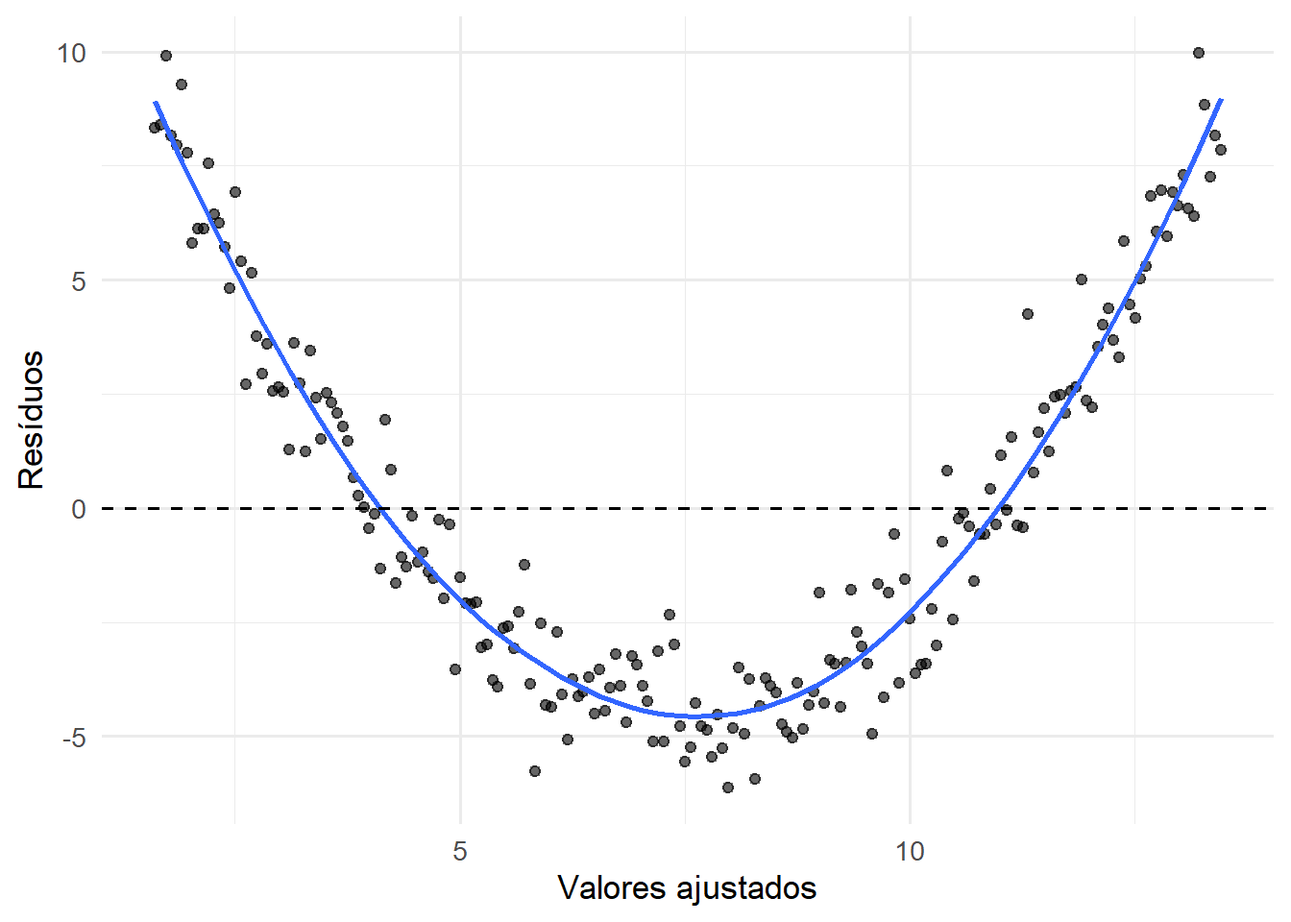
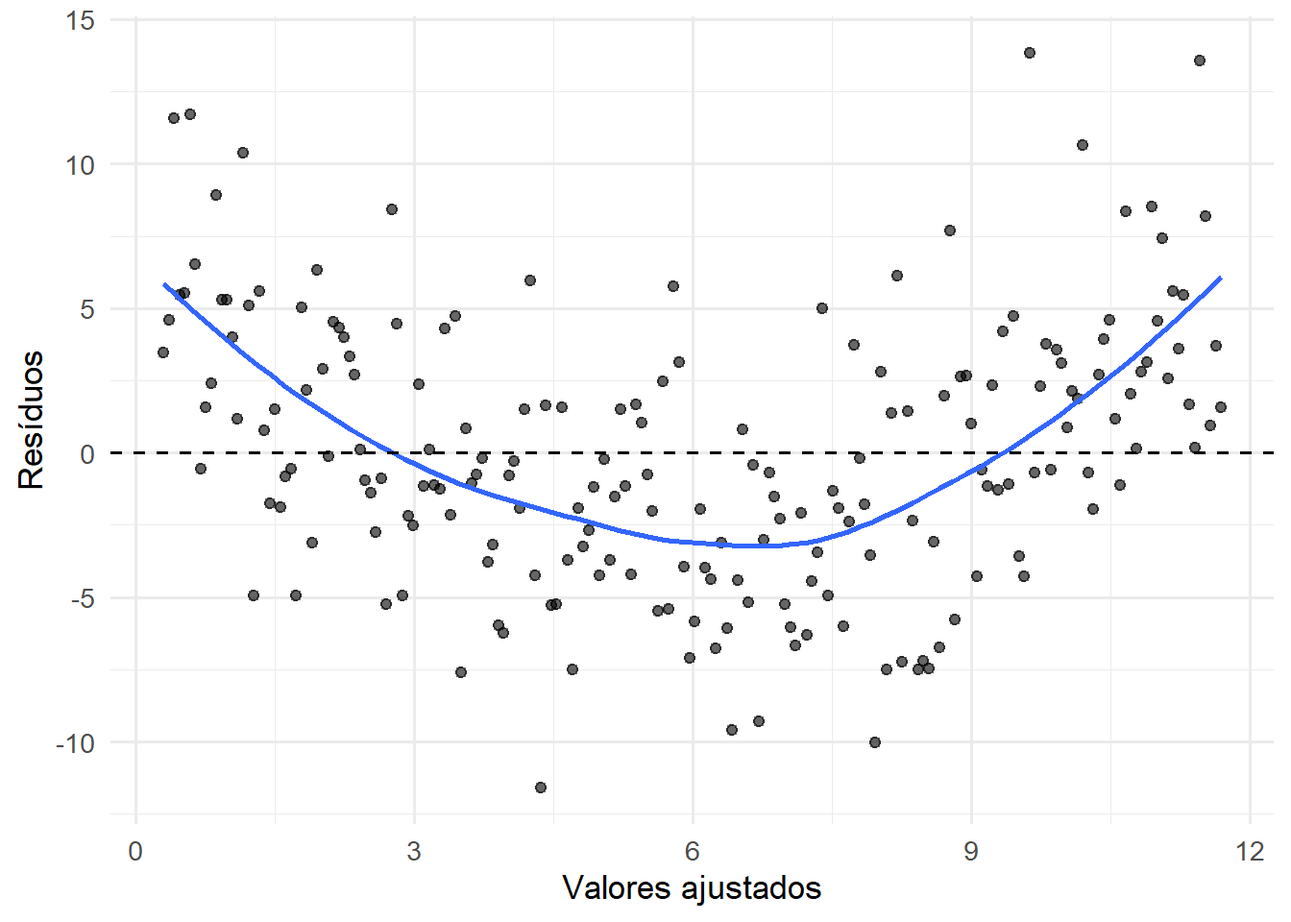
trans

diff --git a/docs/mrlm_diagnostico.html b/docs/mrlm_diagnostico.html
@@ -590,7 +590,7 @@ window.Quarto = {
   <ul class="collapse">
   <li><a href="#resíduo-ordinário" id="toc-resíduo-ordinário" class="nav-link" data-scroll-target="#resíduo-ordinário"><span class="header-section-number">19.3.1</span> Resíduo ordinário</a></li>
   <li><a href="#resíduos-padronizados" id="toc-resíduos-padronizados" class="nav-link" data-scroll-target="#resíduos-padronizados"><span class="header-section-number">19.3.2</span> Resíduos padronizados</a></li>
-  <li><a href="#resíduos-studentizados" id="toc-resíduos-studentizados" class="nav-link" data-scroll-target="#resíduos-studentizados"><span class="header-section-number">19.3.3</span> Resíduos studentizados</a></li>
+  <li><a href="#resíduos-studentizados-externos" id="toc-resíduos-studentizados-externos" class="nav-link" data-scroll-target="#resíduos-studentizados-externos"><span class="header-section-number">19.3.3</span> Resíduos studentizados (externos)</a></li>
   </ul></li>
   <li><a href="#diagnóstico-das-suposições" id="toc-diagnóstico-das-suposições" class="nav-link" data-scroll-target="#diagnóstico-das-suposições"><span class="header-section-number">19.4</span> Diagnóstico das suposições</a>
   <ul class="collapse">
@@ -663,7 +663,7 @@ window.Quarto = {
 <li>existem observações atípicas ou influentes;</li>
 <li>as conclusões obtidas dependem excessivamente de poucas observações.</li>
 </ul>
-<p>É importante destacar que o diagnóstico não deve ser interpretado como um conjunto de testes destinados a “aprovar” ou “reprovar” um modelo. O objetivo é compreender como o modelo se comporta diante dos dados e identificar situações em que adaptações, transformações ou métodos alternativos possam ser necessários <span class="citation" data-cites="fox2019 cook1982">(<a href="references.html#ref-fox2019" role="doc-biblioref">Fox; Weisberg, 2019</a>; <a href="references.html#ref-cook1982" role="doc-biblioref"><strong>cook1982?</strong></a>)</span>.</p>
+<p>É importante destacar que o diagnóstico não deve ser interpretado como um conjunto de testes destinados a “aprovar” ou “reprovar” um modelo. O objetivo é compreender como o modelo se comporta diante dos dados e identificar situações em que adaptações, transformações ou métodos alternativos possam ser necessários <span class="citation" data-cites="fox2019 cook1982">(<a href="references.html#ref-cook1982" role="doc-biblioref">Cook; Weisberg, 1982</a>; <a href="references.html#ref-fox2019" role="doc-biblioref">Fox; Weisberg, 2019</a>)</span>.</p>
 <p>Assim como a estimação e a inferência, o diagnóstico faz parte do processo de modelagem. Na prática, a construção de um modelo costuma envolver sucessivos ciclos de ajuste, avaliação e refinamento até que se obtenha uma representação satisfatória do fenômeno estudado.</p>
 </section>
 <section id="o-que-um-diagnóstico-procura-responder" class="level2" data-number="19.2">
@@ -782,10 +782,10 @@ Figura&nbsp;19.2: Resíduos padronizados em função dos valores ajustados.
 </div>
 <p>Esse gráfico será utilizado diversas vezes ao longo do capítulo, pois permite investigar simultaneamente possíveis desvios de linearidade, heterocedasticidade e observações discrepantes.</p>
 </section>
-<section id="resíduos-studentizados" class="level3" data-number="19.3.3">
-<h3 data-number="19.3.3" class="anchored" data-anchor-id="resíduos-studentizados"><span class="header-section-number">19.3.3</span> Resíduos studentizados</h3>
+<section id="resíduos-studentizados-externos" class="level3" data-number="19.3.3">
+<h3 data-number="19.3.3" class="anchored" data-anchor-id="resíduos-studentizados-externos"><span class="header-section-number">19.3.3</span> Resíduos studentizados (externos)</h3>
 <p>Os resíduos padronizados utilizam uma única estimativa da variância residual, obtida a partir de todas as observações da amostra. Em algumas situações, entretanto, uma observação potencialmente discrepante pode influenciar essa estimativa, dificultando sua própria identificação.</p>
-<p>Para contornar esse problema, utilizam-se os resíduos studentizados, definidos por</p>
+<p>Para contornar esse problema, utilizam-se os resíduos studentizados externos, definidos por</p>
 <p><span class="math display">\[
 t_i
 =
@@ -807,7 +807,7 @@ t_i
 <p><span class="math display">\[
 n-p-2
 \]</span></p>
-<p>graus de liberdade <span class="citation" data-cites="montgomery2021 cook1982">(<a href="references.html#ref-montgomery2021" role="doc-biblioref">Montgomery; Peck; Vining, 2021</a>; <a href="references.html#ref-cook1982" role="doc-biblioref"><strong>cook1982?</strong></a>)</span>.</p>
+<p>graus de liberdade <span class="citation" data-cites="montgomery2021 cook1982">(<a href="references.html#ref-cook1982" role="doc-biblioref">Cook; Weisberg, 1982</a>; <a href="references.html#ref-montgomery2021" role="doc-biblioref">Montgomery; Peck; Vining, 2021</a>)</span>.</p>
 <p>Essa característica permite utilizar os resíduos studentizados para identificar observações potencialmente discrepantes.</p>
 <p>Como regra prática, valores absolutos superiores a</p>
 <p><span class="math display">\[
@@ -824,7 +824,6 @@ n-p-2
 </section>
 <section id="diagnóstico-das-suposições" class="level2" data-number="19.4">
 <h2 data-number="19.4" class="anchored" data-anchor-id="diagnóstico-das-suposições"><span class="header-section-number">19.4</span> Diagnóstico das suposições</h2>
-<p>As hipóteses do modelo de regressão não podem ser verificadas diretamente a partir dos erros aleatórios, pois essas quantidades não são observáveis. Em seu lugar, utilizam-se os resíduos, que fornecem informações sobre possíveis inadequações do modelo ajustado.</p>
 <p>A análise diagnóstica não deve ser interpretada como uma sequência de testes independentes destinados a aprovar ou reprovar um modelo. O objetivo é reunir evidências que permitam avaliar se as hipóteses adotadas constituem aproximações razoáveis para os dados observados <span class="citation" data-cites="montgomery2021 fox2019">(<a href="references.html#ref-fox2019" role="doc-biblioref">Fox; Weisberg, 2019</a>; <a href="references.html#ref-montgomery2021" role="doc-biblioref">Montgomery; Peck; Vining, 2021</a>)</span>.</p>
 <p>Em geral, a investigação concentra-se em quatro aspectos principais:</p>
 <ul>
@@ -836,10 +835,8 @@ n-p-2
 <p>Embora cada hipótese possa ser avaliada separadamente, os diagnósticos costumam ser interpretados de forma conjunta. Um mesmo padrão residual pode indicar mais de um problema simultaneamente.</p>
 <section id="linearidade" class="level3" data-number="19.4.1">
 <h3 data-number="19.4.1" class="anchored" data-anchor-id="linearidade"><span class="header-section-number">19.4.1</span> Linearidade</h3>
-<p>O Modelo de Regressão Linear Múltipla assume que a média da variável resposta pode ser representada por uma combinação linear dos parâmetros.</p>
-<p>Em termos práticos, isso significa que a forma funcional especificada deve ser capaz de descrever adequadamente a relação entre a resposta e as covariáveis incluídas no modelo.</p>
-<p>Quando essa hipótese é inadequada, os resíduos frequentemente apresentam padrões sistemáticos que indicam a existência de estrutura ainda não capturada pelo modelo.</p>
-<p>O principal instrumento gráfico para investigar essa hipótese é o gráfico de resíduos versus valores ajustados.</p>
+<p>O Modelo de Regressão Linear Múltipla assume que a média da variável resposta pode ser representada por uma combinação linear dos parâmetros. Em termos práticos, isso significa que a forma funcional especificada deve ser capaz de descrever adequadamente a relação entre a resposta e as covariáveis incluídas no modelo.</p>
+<p>Quando essa hipótese é inadequada, os resíduos frequentemente apresentam padrões sistemáticos que indicam a existência de estrutura ainda não capturada pelo modelo. O principal instrumento gráfico para investigar essa hipótese é o gráfico de resíduos versus valores ajustados.</p>
 <p>Quando o modelo está adequadamente especificado, espera-se observar uma nuvem aproximadamente aleatória em torno da linha horizontal correspondente ao valor zero.</p>
 <p>Por outro lado, padrões curvilíneos, tendências crescentes ou decrescentes e agrupamentos sistemáticos sugerem que a forma funcional adotada pode ser inadequada.</p>
 <div class="cell">
@@ -883,7 +880,7 @@ Figura&nbsp;19.4: Padrão residual sugerindo inadequação da forma funcional.
 </section>
 <section id="homocedasticidade" class="level3" data-number="19.4.2">
 <h3 data-number="19.4.2" class="anchored" data-anchor-id="homocedasticidade"><span class="header-section-number">19.4.2</span> Homocedasticidade</h3>
-<p>Uma das hipóteses centrais do modelo clássico de regressão estabelece que a variância dos erros permanece constante ao longo de todas as observações. Formalmente,</p>
+<p>Uma das hipóteses principais do modelo clássico de regressão estabelece que a variância dos erros permanece constante ao longo de todas as observações. Formalmente,</p>
 <p><span class="math display">\[
 Var(\varepsilon_i)
 =
@@ -948,6 +945,7 @@ Var(\varepsilon_i)
 \]</span></p>
 <p>Sob a hipótese nula, espera-se que a dispersão dos resíduos não apresente associação sistemática com as variáveis explicativas.</p>
 <p>A aplicação do teste em R pode ser realizada por meio do pacote <code>lmtest</code>.</p>
+<p>A tabela a seguir apresenta o resultado do teste de Breusch–Pagan para o modelo que apresentou os residuos heterocedasticos na figura anterior.</p>
 <div class="cell">
 <div id="tbl-breusch-pagan" class="cell quarto-float quarto-figure quarto-figure-center anchored">
 <figure class="quarto-float quarto-float-tbl figure">
@@ -999,7 +997,6 @@ Tabela&nbsp;19.1: Resultado do teste de Breusch–Pagan.
 </section>
 <section id="normalidade" class="level3" data-number="19.4.4">
 <h3 data-number="19.4.4" class="anchored" data-anchor-id="normalidade"><span class="header-section-number">19.4.4</span> Normalidade</h3>
-<p>A hipótese de normalidade dos erros desempenha papel importante na construção de intervalos de confiança e testes de hipóteses em amostras pequenas.</p>
 <p>No modelo clássico de regressão, assume-se que</p>
 <p><span class="math display">\[
 \varepsilon_i
@@ -1009,9 +1006,7 @@ N(0,\sigma^2).
 <p>Sob essa hipótese, diversas estatísticas inferenciais possuem distribuições exatas conhecidas, justificando o uso das distribuições <span class="math inline">\(t\)</span> e <span class="math inline">\(F\)</span> estudadas nos capítulos anteriores.</p>
 <p>É importante destacar que a hipótese de normalidade refere-se aos erros aleatórios e não à variável resposta ou às covariáveis. Assim, não é necessário que os dados observados apresentem distribuição normal para que o modelo seja utilizado.</p>
 <p>Além disso, a regressão linear costuma apresentar razoável robustez a desvios moderados da normalidade, especialmente em amostras grandes. Por essa razão, pequenas discrepâncias raramente comprometem uma análise <span class="citation" data-cites="montgomery2021 seber2003">(<a href="references.html#ref-montgomery2021" role="doc-biblioref">Montgomery; Peck; Vining, 2021</a>; <a href="references.html#ref-seber2003" role="doc-biblioref">Seber; Lee, 2003</a>)</span>.</p>
-<p>A avaliação da normalidade é geralmente realizada por meio de gráficos e testes formais.</p>
-<p>O gráfico mais utilizado é o gráfico quantil-quantil normal, conhecido como gráfico Q-Q.</p>
-<p>Nesse gráfico, os quantis observados dos resíduos são comparados com os quantis esperados sob uma distribuição normal.</p>
+<p>A avaliação da normalidade é geralmente realizada por meio de gráficos e testes formais. O gráfico mais utilizado é o gráfico quantil-quantil normal, conhecido como gráfico Q-Q. Nesse gráfico, os quantis observados dos resíduos são comparados com os quantis esperados sob uma distribuição normal.</p>
 <p>Quando a hipótese de normalidade é plausível, os pontos tendem a se distribuir próximos da reta de referência.</p>
 <p>A Figura abaixo apresenta um exemplo compatível com normalidade.</p>
 <div class="cell">
@@ -1111,7 +1106,6 @@ Tabela&nbsp;19.2: Resultado do teste de Shapiro–Wilk.
 </section>
 <section id="independência" class="level3" data-number="19.4.6">
 <h3 data-number="19.4.6" class="anchored" data-anchor-id="independência"><span class="header-section-number">19.4.6</span> Independência</h3>
-<p>Outra hipótese frequentemente assumida no modelo clássico de regressão é a independência dos erros.</p>
 <p>Formalmente,</p>
 <p><span class="math display">\[
 Cov(
@@ -1360,7 +1354,7 @@ Tabela&nbsp;19.4: Fatores de inflação da variância.
 </figure>
 </div>
 </div>
-<p>Valores elevados de VIF não implicam necessariamente que uma variável deva ser removida. Em muitos estudos, covariáveis fortemente correlacionadas possuem importância substantiva e devem permanecer no modelo.</p>
+<p>Valores elevados de VIF não implicam necessariamente que uma variável deva ser removida. Em muitos estudos, covariáveis fortemente correlacionadas podem ser relevantes e devem permanecer no modelo.</p>
 <p>Além disso, em modelos que incluem termos de interação, polinômios ou variáveis derivadas de outras covariáveis, valores elevados de VIF podem surgir naturalmente devido à própria estrutura do modelo. Nesses casos, a interpretação deve considerar o objetivo da modelagem e não apenas limites numéricos arbitrários.</p>
 <p>O diagnóstico de multicolinearidade deve ser interpretado como um auxílio à compreensão da estabilidade das estimativas e não como um procedimento automático de seleção de variáveis.</p>
 </section>
@@ -1447,7 +1441,7 @@ Figura&nbsp;19.12: Observação com elevada alavancagem.
 </section>
 <section id="distância-de-cook" class="level3" data-number="19.6.2">
 <h3 data-number="19.6.2" class="anchored" data-anchor-id="distância-de-cook"><span class="header-section-number">19.6.2</span> Distância de Cook</h3>
-<p>A distância de Cook combina informações sobre resíduos e alavancagem em uma única medida de influência <span class="citation" data-cites="cook1982">(<a href="references.html#ref-cook1982" role="doc-biblioref"><strong>cook1982?</strong></a>)</span>.</p>
+<p>A distância de Cook combina informações sobre resíduos e alavancagem em uma única medida de influência <span class="citation" data-cites="cook1982">(<a href="references.html#ref-cook1982" role="doc-biblioref">Cook; Weisberg, 1982</a>)</span>.</p>
 <p>Sua ideia central consiste em avaliar o impacto produzido pela remoção de uma observação sobre os coeficientes estimados.</p>
 <p>A distância de Cook da observação <span class="math inline">\(i\)</span> pode ser escrita como</p>
 <p><span class="math display">\[
@@ -1553,7 +1547,7 @@ DFFITS_i
 }.
 \]</span></p>
 <p>Enquanto a distância de Cook avalia o impacto global de uma observação sobre o ajuste do modelo, o DFFITS concentra-se especificamente em sua influência sobre a própria predição. Assim, duas observações podem apresentar valores semelhantes de distância de Cook e comportamentos distintos em termos de DFFITS.</p>
-<p>Assim como as demais medidas de influência, o DFFITS deve ser interpretado como um indicador de investigação e não como um critério automático para exclusão de observações.</p>
+<p>O DFFITS deve ser interpretado como um indicador de investigação e não como um critério automático para exclusão de observações.</p>
 </section>
 <section id="diagnóstico-conjunto" class="level3" data-number="19.6.5">
 <h3 data-number="19.6.5" class="anchored" data-anchor-id="diagnóstico-conjunto"><span class="header-section-number">19.6.5</span> Diagnóstico conjunto</h3>
@@ -1590,12 +1584,12 @@ Figura&nbsp;19.14: Resíduos studentizados e alavancagem.
 <li>inconsistências no processo de coleta;</li>
 <li>características particulares da unidade observada.</li>
 </ul>
-<p>Em muitas aplicações, observações influentes representam justamente casos de interesse científico e sua remoção pode levar à perda de informações relevantes <span class="citation" data-cites="cook1982 fox2019">(<a href="references.html#ref-fox2019" role="doc-biblioref">Fox; Weisberg, 2019</a>; <a href="references.html#ref-cook1982" role="doc-biblioref"><strong>cook1982?</strong></a>)</span>.</p>
+<p>Em muitas aplicações, observações influentes representam justamente casos de interesse científico e sua remoção pode levar à perda de informações relevantes <span class="citation" data-cites="cook1982 fox2019">(<a href="references.html#ref-cook1982" role="doc-biblioref">Cook; Weisberg, 1982</a>; <a href="references.html#ref-fox2019" role="doc-biblioref">Fox; Weisberg, 2019</a>)</span>.</p>
 </section>
 </section>
 <section id="síntese-das-ferramentas-diagnósticas" class="level2" data-number="19.7">
 <h2 data-number="19.7" class="anchored" data-anchor-id="síntese-das-ferramentas-diagnósticas"><span class="header-section-number">19.7</span> Síntese das ferramentas diagnósticas</h2>
-<p>A Tabela X.X resume as principais ferramentas discutidas neste capítulo.</p>
+<p>A Tabela a seguir resume as principais ferramentas discutidas neste capítulo.</p>
 <table class="caption-top table">
 <thead>
 <tr class="header">
@@ -1647,7 +1641,7 @@ Figura&nbsp;19.14: Resíduos studentizados e alavancagem.
 <section id="exemplo-ilustrativo" class="level2" data-number="19.8">
 <h2 data-number="19.8" class="anchored" data-anchor-id="exemplo-ilustrativo"><span class="header-section-number">19.8</span> Exemplo ilustrativo</h2>
 <p>Para consolidar os conceitos discutidos neste capítulo, utilizaremos a base <code>Credit</code>, disponível no pacote <code>ISLR</code>.</p>
-<p>Nosso foco será a avaliação diagnóstica do modelo, e não a interpretação substantiva dos coeficientes estimados. Utilizaremos as ferramentas discutidas ao longo do capítulo para investigar a adequação das principais hipóteses do modelo de regressão.</p>
+<p>Nosso foco será a avaliação diagnóstica do modelo, e não a interpretação dos coeficientes estimados. Utilizaremos as ferramentas discutidas ao longo do capítulo para investigar a adequação das principais hipóteses do modelo de regressão.</p>
 <p>Consideremos o modelo</p>
 <p><span class="math display">\[
 Balance
@@ -1982,6 +1976,9 @@ Figura&nbsp;19.20: Valores absolutos de DFFITS.
 
 
 <div id="refs" class="references csl-bib-body" data-entry-spacing="1" role="list" style="display: none">
+<div id="ref-cook1982" class="csl-entry" role="listitem">
+COOK, R. Dennis; WEISBERG, Sanford. <strong>Residuals and Influence in Regression</strong>. New York: Chapman; Hall, 1982.
+</div>
 <div id="ref-fox2019" class="csl-entry" role="listitem">
 FOX, John; WEISBERG, Sanford. <strong>An R Companion to Applied Regression</strong>. 3. ed. <em>[S.l.: S.n.]</em>.
 </div>

diff --git a/docs/mrlm_qualidade.html b/docs/mrlm_qualidade.html
@@ -643,7 +643,7 @@ window.Quarto = {
 <p>Após ajustar um modelo de regressão, surge uma questão natural: quão bem esse modelo descreve os dados observados?</p>
 <p>Em situações simples, essa pergunta pode parecer fácil de responder. Um modelo que produz resíduos menores ou previsões mais próximas dos valores observados parece, intuitivamente, superior a outro. Entretanto, a avaliação de um modelo envolve aspectos adicionais.</p>
 <p>Considere dois modelos ajustados para a mesma variável resposta. O primeiro utiliza apenas uma variável explicativa, enquanto o segundo incorpora diversas covariáveis adicionais. Em geral, o modelo mais complexo apresentará melhor ajuste aos dados observados, pois possui maior flexibilidade para acomodar padrões presentes na amostra. Isso não significa, necessariamente, que ele seja mais útil ou mais adequado <span class="citation" data-cites="montgomery2021 kutner2005">(<a href="references.html#ref-kutner2005" role="doc-biblioref">Kutner et al., 2005</a>; <a href="references.html#ref-montgomery2021" role="doc-biblioref">Montgomery; Peck; Vining, 2021</a>)</span>.</p>
-<p>Modelos excessivamente complexos podem capturar flutuações específicas da amostra em vez de representar relações sistemáticas do fenômeno estudado. Esse comportamento é conhecido como sobreajuste (<em>overfitting</em>) e pode comprometer a capacidade preditiva do modelo em novos conjuntos de dados <span class="citation" data-cites="james2021">(<a href="references.html#ref-james2021" role="doc-biblioref"><strong>james2021?</strong></a>)</span>.</p>
+<p>Modelos excessivamente complexos podem capturar flutuações específicas da amostra em vez de representar relações sistemáticas do fenômeno estudado. Esse comportamento é conhecido como sobreajuste (<em>overfitting</em>) e pode comprometer a capacidade preditiva do modelo em novos conjuntos de dados <span class="citation" data-cites="james2021">(<a href="references.html#ref-james2021" role="doc-biblioref">James et al., 2021</a>)</span>.</p>
 <p>Por outro lado, modelos excessivamente simples podem deixar de incorporar variáveis relevantes, produzindo estimativas viesadas, menor poder explicativo ou previsões pouco precisas.</p>
 <p>A comparação entre modelos envolve, portanto, um equilíbrio entre qualidade de ajuste, complexidade e interpretabilidade. Em alguns contextos, o objetivo principal é explicar relações entre variáveis. Em outros, o interesse está na previsão de novas observações. Há ainda situações em que modelos distintos representam hipóteses científicas concorrentes.</p>
 <p>Por essa razão, a escolha de um modelo não deve ser baseada em um único indicador numérico. Diferentes medidas avaliam diferentes aspectos do ajuste e podem conduzir a conclusões distintas <span class="citation" data-cites="burnham2002">(<a href="references.html#ref-burnham2002" role="doc-biblioref">Burnham; Anderson, 2002</a>)</span>.</p>
@@ -808,7 +808,7 @@ SQ_{Res}
 <li><span class="math inline">\(SQ_R\)</span> mede a parcela explicada pelo modelo;</li>
 <li><span class="math inline">\(SQ_{Res}\)</span> mede a parcela não explicada.</li>
 </ul>
-<p>Quanto menor for <span class="math inline">\(SQ_Res\)</span>, melhor tende a ser o ajuste aos dados observados.</p>
+<p>Quanto menor for <span class="math inline">\(SQ_{Res}\)</span>, melhor tende a ser o ajuste aos dados observados.</p>
 <p>Essa observação, entretanto, deve ser interpretada com cautela. À medida que novas variáveis são incorporadas ao modelo, a soma de quadrados residual nunca aumenta. Em outras palavras, modelos mais complexos quase sempre produzem valores menores de <span class="math inline">\(SQ_{Res}\)</span>.</p>
 <p>Por essa razão, medidas de qualidade de ajuste precisam considerar não apenas a redução dos resíduos, mas também a complexidade do modelo.</p>
 </section>
@@ -1141,7 +1141,7 @@ Y
 <h2 data-number="18.6" class="anchored" data-anchor-id="sobreajuste-parcimônia-e-capacidade-preditiva"><span class="header-section-number">18.6</span> Sobreajuste, parcimônia e capacidade preditiva</h2>
 <p>Uma característica comum dos procedimentos de seleção é a busca por equilíbrio entre ajuste e complexidade.</p>
 <p>À medida que novas variáveis são incorporadas ao modelo, o ajuste aos dados observados tende a melhorar. Entretanto, parte dessa melhoria pode corresponder apenas à adaptação a particularidades da amostra utilizada.</p>
-<p>Esse fenômeno é conhecido como sobreajuste (<em>overfitting</em>) <span class="citation" data-cites="james2021 burnham2002">(<a href="references.html#ref-burnham2002" role="doc-biblioref">Burnham; Anderson, 2002</a>; <a href="references.html#ref-james2021" role="doc-biblioref"><strong>james2021?</strong></a>)</span>.</p>
+<p>Esse fenômeno é conhecido como sobreajuste (<em>overfitting</em>) <span class="citation" data-cites="james2021 burnham2002">(<a href="references.html#ref-burnham2002" role="doc-biblioref">Burnham; Anderson, 2002</a>; <a href="references.html#ref-james2021" role="doc-biblioref">James et al., 2021</a>)</span>.</p>
 <p>Modelos sobreajustados frequentemente apresentam:</p>
 <ul>
 <li>elevado <span class="math inline">\(R^2\)</span>;</li>
@@ -1335,6 +1335,9 @@ AKAIKE, Hirotugu. A new look at the statistical model identification. <strong>IE
 </div>
 <div id="ref-burnham2002" class="csl-entry" role="listitem">
 BURNHAM, Kenneth P.; ANDERSON, David R. <strong>Model Selection and Multimodel Inference: A Practical Information-Theoretic Approach</strong>. 2. ed. New York: Springer, 2002.
+</div>
+<div id="ref-james2021" class="csl-entry" role="listitem">
+JAMES, Gareth <em>et al.</em> <strong>An Introduction to Statistical Learning: with Applications in R</strong>. 2. ed. New York: Springer, 2021.
 </div>
 <div id="ref-kutner2005" class="csl-entry" role="listitem">
 KUTNER, Michael H. <em>et al.</em> <strong>Applied Linear Statistical Models</strong>. 5. ed. New York: McGraw-Hill, 2005.

diff --git a/docs/references.html b/docs/references.html
@@ -625,6 +625,10 @@ COHEN, Jacob. <strong>Statistical Power Analysis for the Behavioral
 Sciences</strong>. 2. ed. Hillsdale, NJ: Lawrence Erlbaum Associates,
 1988.
 </div>
+<div id="ref-cook1982" class="csl-entry" role="listitem">
+COOK, R. Dennis; WEISBERG, Sanford. <strong>Residuals and Influence in
+Regression</strong>. New York: Chapman; Hall, 1982.
+</div>
 <div id="ref-draper1998" class="csl-entry" role="listitem">
 DRAPER, Norman R.; SMITH, Harry. <strong>Applied Regression
 Analysis</strong>. 3. ed. New York: John Wiley &amp; Sons, 1998.
@@ -715,6 +719,11 @@ Validation</a></strong>. <em>[S.l.]</em>: R package documentation, 2024.
 <div id="ref-james2013" class="csl-entry" role="listitem">
 JAMES, Gareth <em>et al.</em> <strong>An Introduction to Statistical
 Learning with Applications in R</strong>. New York: Springer, 2013.
+</div>
+<div id="ref-james2021" class="csl-entry" role="listitem">
+JAMES, Gareth <em>et al.</em> <strong>An Introduction to Statistical
+Learning: with Applications in R</strong>. 2. ed. New York: Springer,
+2021.
 </div>
 <div id="ref-koenker2005" class="csl-entry" role="listitem">
 KOENKER, Roger. <strong>Quantile Regression</strong>. <em>[S.l.]</em>:
